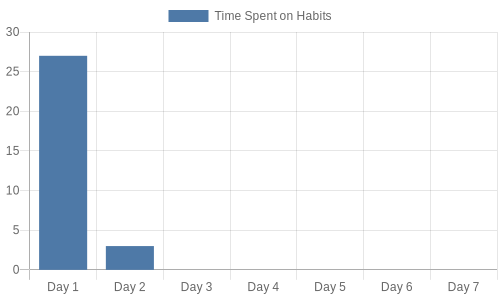
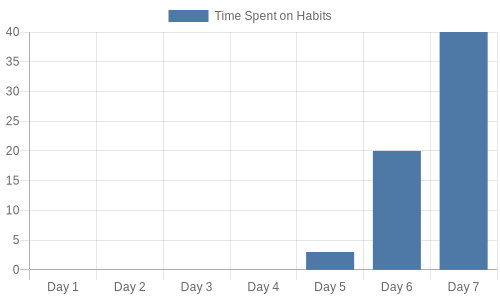
reversed list

Changed region(s): [[0.0, 0.09, 0.99, 0.9], [0.0, 0.48, 0.03, 0.51], [0.0, 0.09, 0.03, 0.12]]

diff --git a/Habit Builder Project/src/use_cases/data_visualization/users/Bob_habit_hours.js b/Habit Builder Project/src/use_cases/data_visualization/users/Bob_habit_hours.js
@@ -1,1 +1,1 @@
-const Bob_habit_hours = [43, 5329, 0, 0, 0, 0, 489];
+const Bob_habit_hours = [0, 0, 5329, 0, 0, 0, 0];

diff --git a/Habit Builder Project/src/use_cases/data_visualization/users/Charile_habit_hours.js b/Habit Builder Project/src/use_cases/data_visualization/users/Charile_habit_hours.js
@@ -1,1 +1,1 @@
-const Charile_habit_hours = [10, 5, 0, 0, 0, 0, 0];
+const Charile_habit_hours = [0, 0, 5, 0, 0, 0, 0];

diff --git a/Habit Builder Project/src/use_cases/data_visualization/users/Alice_habit_hours.js b/Habit Builder Project/src/use_cases/data_visualization/users/Alice_habit_hours.js
@@ -1,1 +1,1 @@
-const Alice_habit_hours = [27, 3, 0, 0, 0, 0, 0];
+const Alice_habit_hours = [40, 20, 3, 0, 0, 0, 0];

diff --git a/Habit Builder Project/src/app/Main.java b/Habit Builder Project/src/app/Main.java
@@ -35,9 +35,9 @@ public class Main {
         // Instantiates initial users with example subjects
 
 
-        mainAppView.addUserHabitLoggingPanel("Bob", logHabitController, "");
-        mainAppView.addUserHabitLoggingPanel("Alice", logHabitController, "");
-        mainAppView.addUserHabitLoggingPanel("Charile", logHabitController, "");
+//        mainAppView.addUserHabitLoggingPanel("Bob", logHabitController, "");
+//        mainAppView.addUserHabitLoggingPanel("Alice", logHabitController, "");
+//        mainAppView.addUserHabitLoggingPanel("Charile", logHabitController, "");
 
 
         for (String s : new String[]{"Bob", "Alice", "Charile"}) {

diff --git a/Habit Builder Project/src/use_cases/data_visualization/ChartRequest.java b/Habit Builder Project/src/use_cases/data_visualization/ChartRequest.java
@@ -58,6 +58,7 @@ public class ChartRequest {
         for (String value : values) {
             timeSpentList.add(Double.parseDouble(value.trim()));
         }
+        Collections.reverse(timeSpentList);
         return timeSpentList;
     }
 
